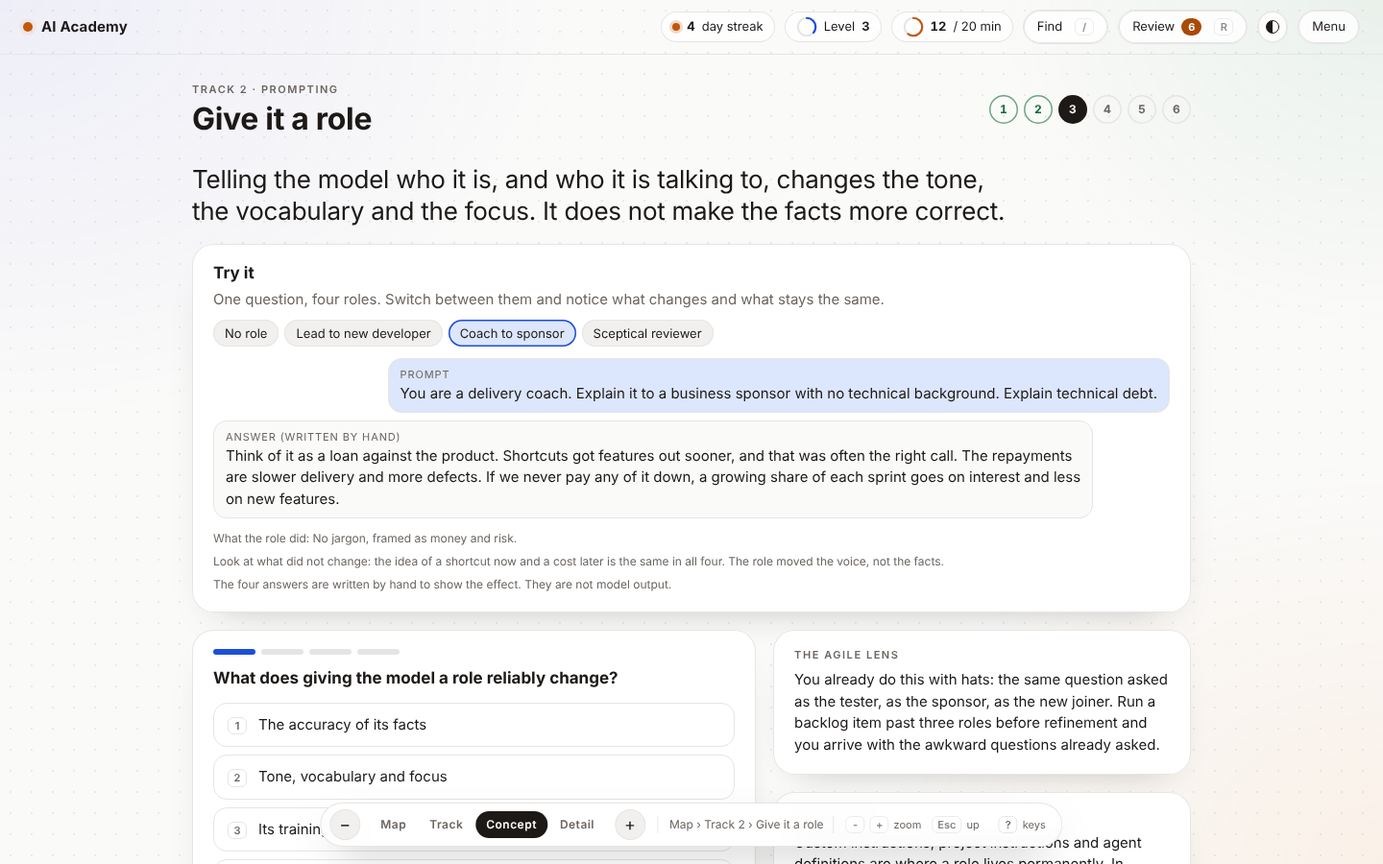
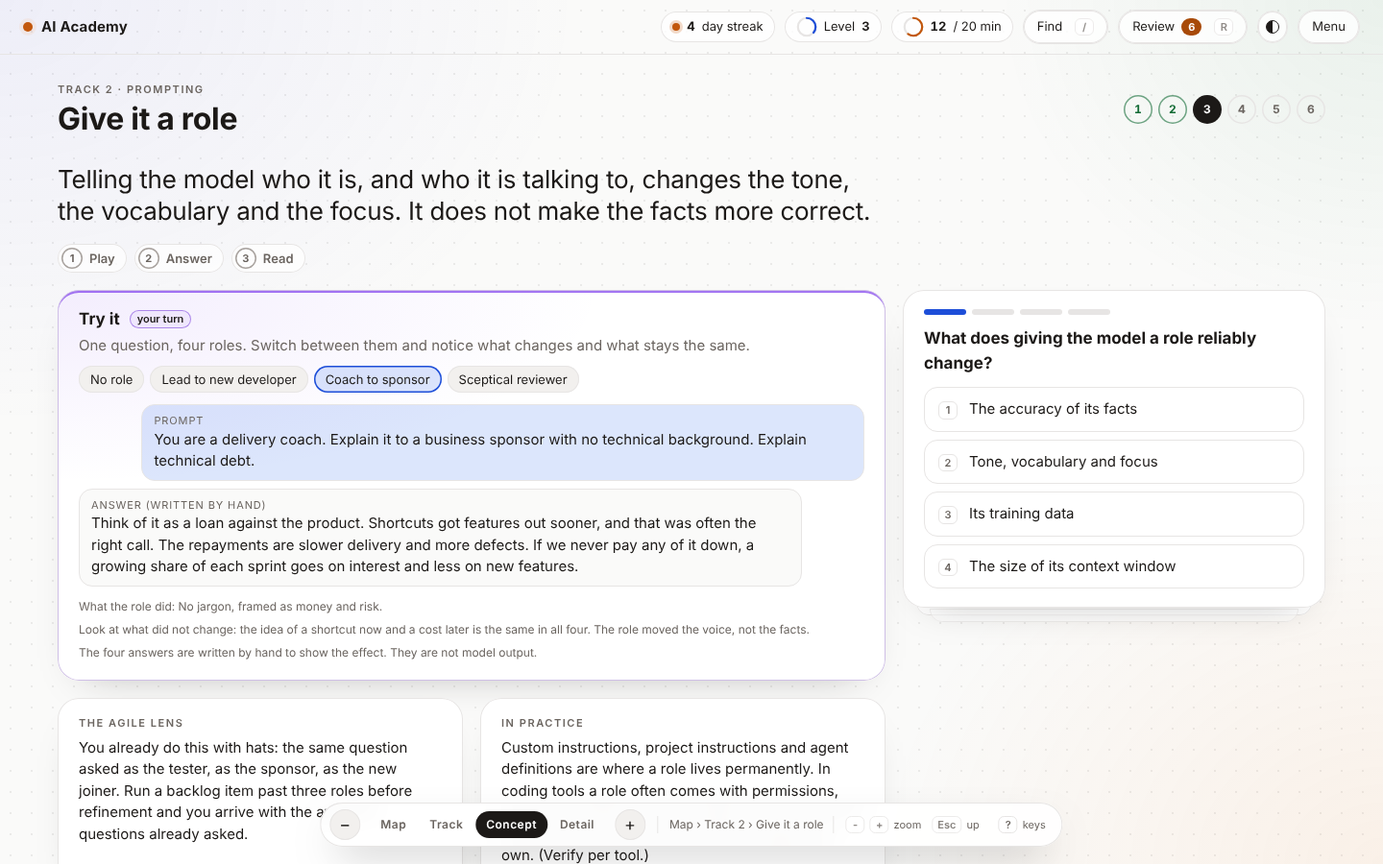
Lesson page: a play mat. Toy and question deck side by side, three steps, small celebrations
On a wide window the questions sit beside the toy and stay in view while it scrolls; narrower, they go under it.
Each lesson has three steps that tick off and are remembered: Play (touch the toy), Answer, Read.
Questions are a deck: cards still to come show behind, the next is dealt in, a right answer bursts and floats its XP to the level chip,
two in a row shows a streak, and the finish names the run. A toy's verdict pops when it turns good and shakes when it turns bad.
Bursts and floating numbers are skipped under reduced motion. XP rules are unchanged.
Tests: 22 new checks.

Claude-Session: https://claude.ai/code/session_01SbnCeDgANzMc5u6p79AutJ

diff --git a/app.js b/app.js
@@ -9,7 +9,7 @@
   function byId(list, id) { return list.filter(function (x) { return x.id === id; })[0]; }
 
   // ---------- state: kept in this browser only (localStorage), and Save / Load to a file ----------
-  function fresh() { return { v: 1, xp: 0, days: {}, cards: {}, done: {}, goal: 10, read: 22, theme: '', names: [], pos: { space: 'learn', track: 'models', concept: 'tokens', zoom: 0, fam: '', role: '' } }; }
+  function fresh() { return { v: 1, xp: 0, days: {}, cards: {}, done: {}, goal: 10, read: 22, theme: '', names: [], played: {}, readm: {}, pos: { space: 'learn', track: 'models', concept: 'tokens', zoom: 0, fam: '', role: '' } }; }
   // Accept a saved object only if it has the right shape; fill anything missing (older files have no names, no roles position).
   function adopt(j) {
     if (!(j && j.v === 1 && j.cards && typeof j.cards === 'object' && j.days && typeof j.days === 'object')) return null;
@@ -19,6 +19,7 @@
     s.theme = s.theme === 'light' || s.theme === 'dark' ? s.theme : '';
     s.names = Array.isArray(s.names) ? s.names.filter(function (n) { return typeof n === 'string'; }).slice(0, 50) : [];
     if (!s.done || typeof s.done !== 'object') s.done = {};
+    ['played', 'readm'].forEach(function (f) { if (!s[f] || typeof s[f] !== 'object') s[f] = {}; }); // which toys you have poked and which Read more pages you opened
     for (k in s.cards) { c = s.cards[k]; if (!c || typeof c.ef !== 'number' || typeof c.due !== 'number' || typeof c.int !== 'number' || typeof c.rep !== 'number') delete s.cards[k]; }
     for (k in s.days) { c = s.days[k]; if (!c || typeof c.min !== 'number' || typeof c.xp !== 'number') delete s.days[k]; }
     return s;
@@ -116,6 +117,7 @@
       if (z >= 2 && !S.pos.concept) z = 1;
     }
     S.pos.zoom = Math.max(0, Math.min(3, z));
+    if (S.pos.zoom === 3 && S.pos.space === 'learn' && S.pos.concept) S.readm[S.pos.concept] = true;
     save(); renderAll();
     if (z0 !== S.pos.zoom || sp0 !== S.pos.space || !went) arrive(z0);
     went = true;
@@ -225,10 +227,11 @@
     if (!L) { el.dataset.key = ''; el.innerHTML = '<div class="wrap"><h1>Nothing here yet</h1><p class="muted">Pick a lesson from the track.</p></div>'; return; }
     if (el.dataset.key !== 'learn.' + c.id) { // build once per lesson, so the picture keeps its state while the quiz and chips redraw
       el.dataset.key = 'learn.' + c.id;
-      el.innerHTML = '<div class="wrap"><div class="head big"><div><div class="kicker">Track ' + (trackIndex(t) + 1) + ' · ' + esc(t.title) + '</div><h1>' + esc(c.title) + '</h1></div><div class="lrail sp" id="lrail" role="group" aria-label="Lessons in this track"></div></div>' +
-        '<p class="idea">' + esc(L.idea) + '</p>' +
-        '<section class="card"><h3>Try it</h3><p class="muted" style="margin:0 0 10px">' + esc(L.tryit) + '</p><div class="widget" id="widget"></div><p class="note">' + esc(L.tryNote) + '</p></section>' +
-        '<div class="duo"><section class="card quiz" id="quiz" aria-label="Quiz"></section><div class="stackv"><div class="card"><h3>The Agile lens</h3><p>' + esc(L.agile) + '</p></div><div class="card"><h3>In practice</h3><p>' + esc(L.tools) + '</p></div></div></div>' +
+      el.innerHTML = '<div class="wrap lesson" style="--c:' + hue(trackIndex(t)) + '"><div class="head big"><div><div class="kicker">Track ' + (trackIndex(t) + 1) + ' · ' + esc(t.title) + '</div><h1>' + esc(c.title) + '</h1></div><div class="lrail sp" id="lrail" role="group" aria-label="Lessons in this track"></div></div>' +
+        '<p class="idea">' + esc(L.idea) + '</p><ol class="steps" id="steps" aria-label="This lesson, in three steps"></ol>' +
+        '<div class="playmat"><section class="card toy" id="toy"><div class="toyhead"><h3>Try it</h3><span class="tag turn" id="toy-state"></span></div><p class="muted" style="margin:0 0 10px">' + esc(L.tryit) + '</p><div class="widget" id="widget"></div><p class="note">' + esc(L.tryNote) + '</p></section>' +
+        '<div class="qcol"><section class="card quiz" id="quiz" aria-label="Quiz"></section></div>' +
+        '<div class="lenses"><div class="card"><h3>The Agile lens</h3><p>' + esc(L.agile) + '</p></div><div class="card"><h3>In practice</h3><p>' + esc(L.tools) + '</p></div></div></div>' +
         '<p><button type="button" class="btn" data-act="detail" aria-keyshortcuts="+">Read more, in big type' + kbd('+') + '</button></p></div>';
       var host = $('#widget', el);
       if (WIDGETS[L.widget]) WIDGETS[L.widget](host, L, sandboxApi); else host.innerHTML = '<p class="muted">No picture for this one yet.</p>';
@@ -236,7 +239,41 @@
     $('#lrail', el).innerHTML = readyIn(t).map(function (x, i) { // the lessons of this track, as a rail you can walk with the arrows
       return '<button type="button" data-concept="' + x.id + '" class="' + (S.done[x.id] ? 'ok' : '') + '"' + (x.id === c.id ? ' aria-current="true"' : '') + ' title="' + esc(x.title) + '" aria-label="Lesson ' + (i + 1) + ': ' + esc(x.title) + (S.done[x.id] ? ', done' : '') + '">' + (i + 1) + '</button>';
     }).join('');
+    renderSteps(c.id);
     startQuiz(c.id, '#quiz'); renderQuiz();
+  }
+  // A lesson is three small things to do: poke the toy, answer the questions, read more. Each one ticks off.
+  function renderSteps(cid) {
+    var box = $('#steps'), st = $('#toy-state'); if (!box) return;
+    var s = [['Play', !!S.played[cid]], ['Answer', !!S.done[cid]], ['Read', !!S.readm[cid]]], n = s.filter(function (x) { return x[1]; }).length;
+    box.innerHTML = s.map(function (x, i) { return '<li class="' + (x[1] ? 'ok' : '') + '"><i aria-hidden="true">' + (x[1] ? '✓' : i + 1) + '</i>' + x[0] + '<span class="muted">' + (x[1] ? ', done' : '') + '</span></li>'; }).join('') + (n === 3 ? '<li class="all">Lesson complete</li>' : '');
+    if (st) { st.textContent = S.played[cid] ? '✓ played' : 'your turn'; st.className = 'tag ' + (S.played[cid] ? 'go' : 'turn'); }
+  }
+  function markPlayed() { // the first time you touch a toy
+    var cid = S.pos.concept; if (S.pos.space !== 'learn' || S.pos.zoom !== 2 || !cid || S.played[cid]) return;
+    S.played[cid] = true; save(); renderSteps(cid); burst($('#toy-state'), 'var(--ok)', 8);
+  }
+  ['input', 'change', 'click'].forEach(function (ev) { $('#L2').addEventListener(ev, function (e) { if (e.target.closest && e.target.closest('#widget') && (ev !== 'click' || e.target.closest('button, input, label'))) markPlayed(); }); });
+
+  // ---------- small celebrations: a burst of dots, a number that floats up. Skipped when reduced motion is on. ----------
+  var calm = window.matchMedia ? matchMedia('(prefers-reduced-motion: reduce)') : { matches: false };
+  function burst(el, color, n) {
+    if (!el || calm.matches) return;
+    var r = el.getBoundingClientRect(), box = document.createElement('div'), i, d, a, dist;
+    box.className = 'burst'; box.setAttribute('aria-hidden', 'true'); box.style.left = (r.left + Math.min(r.width / 2, 24)) + 'px'; box.style.top = (r.top + r.height / 2) + 'px';
+    for (i = 0; i < n; i++) {
+      d = document.createElement('i'); a = (i / n) * Math.PI * 2 + Math.random() * 0.6; dist = 22 + Math.random() * 34;
+      d.style.setProperty('--dx', (Math.cos(a) * dist).toFixed(1) + 'px'); d.style.setProperty('--dy', (Math.sin(a) * dist).toFixed(1) + 'px'); d.style.background = i % 3 === 2 ? 'var(--info)' : color;
+      box.appendChild(d);
+    }
+    document.body.appendChild(box); setTimeout(function () { box.remove(); }, 900);
+  }
+  function flyXp(el, n) {
+    var chip = $('#c-level'); chip.classList.remove('bump'); void chip.offsetWidth; chip.classList.add('bump'); // the level chip takes the points
+    if (!el || calm.matches) return;
+    var r = el.getBoundingClientRect(), f = document.createElement('b');
+    f.className = 'xpfly'; f.setAttribute('aria-hidden', 'true'); f.textContent = '+' + n + ' XP'; var side = el.classList.contains('score'); f.style.left = (side ? r.right + 10 : r.right - 90) + 'px'; f.style.top = (side ? r.top + r.height / 2 : r.top + 4) + 'px'; // beside the score ring, or in the corner of the answer
+    document.body.appendChild(f); setTimeout(function () { f.remove(); }, 1100);
   }
   function renderDetail() {
     var t = trackOf(S.pos.track), c = t && conceptOf(t, S.pos.concept), L = c && A.lessons[c.id];
@@ -353,9 +390,10 @@
     var box = Q && $(Q.box); if (!box) return;
     var qs = QSETS[Q.sid], n = qs.length, dots = '';
     for (var i = 0; i < n; i++) dots += '<i class="' + (Q.res[i] === true ? 'ok' : Q.res[i] === false ? 'bad' : i === Q.i && !Q.done ? 'on' : '') + '"></i>';
+    box.dataset.left = Q.done ? 0 : n - Q.i - 1; // how many cards are still in the deck behind this one
     if (Q.done) {
-      var nx = S.pos.space === 'learn' ? nextLesson(Q.sid) : null;
-      box.innerHTML = '<div class="done"><div class="dots">' + dots + '</div><div class="score" style="--c:var(--ok)" aria-hidden="true">' + ring(Q.right / n, 96, 'hue') + '<b>' + Q.right + '/' + n + '</b></div><h3 tabindex="-1">' + Q.right + ' of ' + n + ' right</h3><p class="muted" style="margin:0">' + (Q.gain ? '+' + Q.gain + ' XP. ' : '') + (Q.added ? Q.added + ' cards joined your review queue.' : 'Your review cards keep their schedule.') + '</p>' +
+      var nx = S.pos.space === 'learn' ? nextLesson(Q.sid) : null, word = Q.right === n ? 'Clean sweep' : Q.right * 2 >= n ? 'Good run' : 'First pass';
+      box.innerHTML = '<div class="done"><div class="dots">' + dots + '</div><div class="kicker">' + word + '</div><div class="score" style="--c:var(--ok)" aria-hidden="true">' + ring(Q.right / n, 96, 'hue') + '<b>' + Q.right + '/' + n + '</b></div><h3 tabindex="-1">' + Q.right + ' of ' + n + ' right</h3><p class="muted" style="margin:0">' + (Q.gain ? '+' + Q.gain + ' XP. ' : '') + (Q.added ? Q.added + ' cards joined your review queue.' : 'Your review cards keep their schedule.') + '</p>' +
         '<div class="row" style="justify-content:center">' + (nx ? '<button type="button" class="btn primary" data-act="nextlesson">Next lesson: ' + esc(nx.c.title) + '</button>' : '') +
         (S.pos.space === 'learn' ? '<button type="button" class="btn' + (nx ? '' : ' primary') + '" data-act="detail">Read more</button><button type="button" class="btn" data-z="1">Back to the track</button>' : '<button type="button" class="btn" data-z="0">Back to the tree</button>') +
         '<button type="button" class="btn" data-act="replay">Replay the quiz</button></div></div>';
@@ -363,22 +401,26 @@
       return;
     }
     var q = qs[Q.i];
-    box.innerHTML = '<div class="dots">' + dots + '</div><p class="q" tabindex="-1">' + esc(q.q) + '</p>' + optsHtml(q, Q.picked, 'data-opt', focus) +
-      (Q.picked === null ? '' : '<p class="why" role="status"><b>' + (Q.picked === q.a ? 'Right. ' : 'Not quite. ') + '</b>' + esc(q.why) + '</p><p style="margin:12px 0 0"><button type="button" class="btn primary" data-act="next">' + (Q.i + 1 < n ? 'Next question' : 'Finish') + kbd('Enter') + '</button></p>');
+    box.innerHTML = '<div class="qbody' + (Q.deal ? ' deal' : '') + '"><div class="qhead"><div class="dots">' + dots + '</div>' + (Q.combo >= 2 ? '<span class="combo">' + Q.combo + ' in a row</span>' : '') + '</div><p class="q" tabindex="-1">' + esc(q.q) + '</p>' + optsHtml(q, Q.picked, 'data-opt', focus) +
+      (Q.picked === null ? '' : '<p class="why" role="status"><b>' + (Q.picked === q.a ? 'Right. ' : 'Not quite. ') + '</b>' + esc(q.why) + '</p><p style="margin:12px 0 0"><button type="button" class="btn primary" data-act="next">' + (Q.i + 1 < n ? 'Next question' : 'Finish') + kbd('Enter') + '</button></p>') + '</div>';
+    Q.deal = false;
     if (focus) { var f = Q.picked === null ? $('.q', box) : $('[data-act="next"]', box); if (f) f.focus({ preventScroll: Q.picked !== null }); }
   }
   function pick(i) {
     if (!Q || Q.done || Q.picked !== null) return;
     var q = QSETS[Q.sid][Q.i]; if (i >= q.opts.length) return;
-    var ok = i === q.a; Q.picked = i; Q.res[Q.i] = ok; if (ok) Q.right++;
-    if (!S.cards[q.id]) { grade(q.id, ok ? 4 : 1); var g = ok ? 5 : 1; addXp(g); Q.gain = (Q.gain || 0) + g; Q.added = (Q.added || 0) + 1; } // only the first sight of a question makes a card and earns XP
+    var ok = i === q.a, g = 0; Q.picked = i; Q.res[Q.i] = ok; if (ok) Q.right++; Q.combo = ok ? (Q.combo || 0) + 1 : 0;
+    if (!S.cards[q.id]) { grade(q.id, ok ? 4 : 1); g = ok ? 5 : 1; addXp(g); Q.gain = (Q.gain || 0) + g; Q.added = (Q.added || 0) + 1; } // only the first sight of a question makes a card and earns XP
     renderQuiz(true); renderChips();
+    var hit = $(Q.box + ' .opt.right'); if (ok) burst(hit, 'var(--ok)', 10); if (g) flyXp(ok ? hit : $(Q.box + ' .opt.wrong'), g);
   }
   function nextQ() {
     if (!Q || Q.picked === null) return;
     Q.picked = null; Q.i++;
-    if (Q.i >= QSETS[Q.sid].length) { Q.done = true; if (!S.done[Q.sid]) { S.done[Q.sid] = true; addXp(20); Q.gain = (Q.gain || 0) + 20; } save(); renderAll(); }
+    var fin = Q.i >= QSETS[Q.sid].length, first = false;
+    if (fin) { Q.done = true; if (!S.done[Q.sid]) { first = true; S.done[Q.sid] = true; addXp(20); Q.gain = (Q.gain || 0) + 20; } save(); renderAll(); } else Q.deal = true; // the next card is dealt in
     renderQuiz(true);
+    if (fin) { if (first) flyXp($(Q.box + ' .score'), 20); if (Q.right === QSETS[Q.sid].length) burst($(Q.box + ' .score'), 'var(--ok)', 18); }
   }
 
   // ---------- chips, menu ----------
@@ -450,7 +492,7 @@
     box.innerHTML = '<div class="sheet"><div class="sheethead"><h2 class="kicker" id="rv-title">Review · card ' + (R.i + 1) + ' of ' + R.ids.length + '</h2>' + segs(shown) + close + '</div><div class="card"><p class="q" tabindex="-1">' + esc(q.q) + '</p>' + optsHtml(q, R.picked, 'data-ropt', focus) + tail + '</div></div>';
     if (focus) { var f = R.picked === null ? $('.q', box) : $('[data-g="4"]', box) || $('[data-g="1"]', box); if (f) f.focus(); }
   }
-  function rpick(i) { if (R && R.picked === null && R.i < R.ids.length && i < QINDEX[R.ids[R.i]].opts.length) { R.picked = i; renderReview(true); } }
+  function rpick(i) { if (R && R.picked === null && R.i < R.ids.length && i < QINDEX[R.ids[R.i]].opts.length) { R.picked = i; renderReview(true); if (i === QINDEX[R.ids[R.i]].a) burst($('#review .opt.right'), 'var(--ok)', 10); } }
   function rgrade(g) { if (!R || R.picked === null) return; var id = R.ids[R.i]; grade(id, g); addXp(2); R.gain += 2; R.i++; R.picked = null; renderReview(true); renderChips(); }
 
   // The sandbox keeps the names you list (to warn about them) in this browser. They are left out of the Save file.

diff --git a/style.css b/style.css
@@ -457,9 +457,59 @@ fieldset.seg label { display: flex; gap: 8px; align-items: flex-start; min-heigh
 .donut { --p: 0; display: inline-block; width: 54px; height: 54px; border-radius: 50%; vertical-align: middle; margin-right: 12px; background: conic-gradient(var(--ok) calc(var(--p) * 1%), var(--ring-bg) 0); -webkit-mask: radial-gradient(circle, transparent 17px, #000 18px); mask: radial-gradient(circle, transparent 17px, #000 18px); }
 .widget .leg { margin-bottom: 8px; }
 
+/* ---------- the lesson page as a play mat: the toy on one side, the questions dealt beside it ---------- */
+.steps { list-style: none; margin: 0; padding: 0; display: flex; gap: 8px; flex-wrap: wrap; align-items: center; }
+.steps li { display: inline-flex; align-items: center; gap: 7px; padding: 4px 12px 4px 4px; border-radius: 999px; font-size: var(--fs-md); font-weight: 600; color: var(--muted); box-shadow: inset 0 0 0 1px var(--line); background: color-mix(in srgb, var(--surface) 70%, transparent); }
+.steps li i { font-style: normal; width: 22px; height: 22px; border-radius: 50%; display: grid; place-items: center; font-size: var(--fs-xs); font-weight: 700; box-shadow: inset 0 0 0 1.5px var(--neutral); }
+.steps li span { position: absolute; width: 1px; height: 1px; overflow: hidden; clip-path: inset(50%); }
+.steps li.ok { color: var(--text); } .steps li.ok i { background: var(--ok); color: var(--bg); box-shadow: none; animation: stamp .4s var(--ease); }
+.steps li.all { padding-left: 12px; color: var(--ok); box-shadow: inset 0 0 0 1px color-mix(in srgb, var(--ok) 55%, transparent); background: color-mix(in srgb, var(--ok) 8%, var(--surface)); }
+@keyframes stamp { from { transform: scale(.4); } 60% { transform: scale(1.2); } }
+.playmat { display: grid; gap: 18px; grid-template-columns: minmax(0, 1.35fr) minmax(0, 1fr); grid-template-areas: "toy toy" "quiz lens"; align-items: start; }
+.playmat > * { min-width: 0; }
+.toy { grid-area: toy; background: radial-gradient(120% 90% at 0 0, color-mix(in srgb, var(--c) 9%, transparent), transparent 55%), var(--surface); box-shadow: inset 0 0 0 1px color-mix(in srgb, var(--c) 22%, var(--line)), inset 0 3px 0 color-mix(in srgb, var(--c) 70%, transparent), var(--panel-sh); }
+.toyhead { display: flex; align-items: center; gap: 10px; margin-bottom: 6px; } .toyhead h3 { margin: 0; }
+.tag.turn { color: var(--text); box-shadow: inset 0 0 0 1px color-mix(in srgb, var(--c) 55%, var(--line)); background: color-mix(in srgb, var(--c) 12%, var(--surface)); animation: breathe 2.4s ease-in-out infinite; }
+@keyframes breathe { 50% { box-shadow: inset 0 0 0 1px color-mix(in srgb, var(--c) 55%, var(--line)), 0 0 0 5px color-mix(in srgb, var(--c) 14%, transparent); } }
+.qcol { grid-area: quiz; } .lenses { grid-area: lens; display: grid; gap: 18px; }
+.lenses .card h3 { font-size: var(--fs-xs); font-weight: 600; letter-spacing: var(--tr-label); text-transform: uppercase; color: var(--muted); margin-bottom: 8px; } .lenses .card p { margin: 0; }
+@media (min-width: 1280px) {
+  .wrap.lesson { max-width: 1320px; }
+  .playmat { grid-template-columns: minmax(0, 1fr) 440px; grid-template-areas: "toy quiz" "lens quiz"; }
+  .qcol { position: sticky; top: 0; } .lenses { grid-template-columns: repeat(2, minmax(0, 1fr)); }
+}
+/* the questions are a deck: the cards still to come sit behind, and the next one is dealt in */
+.quiz { position: relative; }
+.quiz::before, .quiz::after { content: ""; position: absolute; left: 14px; right: 14px; height: 14px; bottom: -8px; border-radius: 0 0 20px 20px; background: var(--surface); box-shadow: inset 0 0 0 1px var(--line); z-index: -1; transition: opacity .3s, transform .3s; }
+.quiz::after { left: 28px; right: 28px; bottom: -15px; opacity: .6; }
+.quiz[data-left="1"]::after, .quiz[data-left="0"]::before, .quiz[data-left="0"]::after { opacity: 0; transform: translateY(-8px); }
+.qcol, #L1 .quiz { isolation: isolate; }
+.qhead { display: flex; align-items: center; gap: 10px; margin-bottom: 12px; } .qhead .dots { margin: 0; flex: 1; }
+.combo { font-size: var(--fs-xs); font-weight: 700; letter-spacing: var(--tr-tight); color: var(--bg); background: var(--run-solid); color: var(--on-run); border-radius: 999px; padding: 1px 9px; animation: stamp .4s var(--ease); white-space: nowrap; }
+@keyframes deal { from { opacity: 0; transform: translateX(26px) rotate(1.2deg); } }
+.qbody.deal { animation: deal .38s var(--ease) both; }
+.opt { transition: border-color .15s ease, background .15s ease, transform .12s ease; }
+.opt:active:not([disabled]) { transform: scale(.985); }
+.opt:hover:not([disabled]) kbd, .opt:focus-visible kbd { background: var(--accent); color: var(--on-accent); border-color: var(--accent); }
+.opt.right kbd { background: var(--ok); color: var(--bg); border-color: var(--ok); } .opt.wrong kbd { background: var(--err); color: var(--bg); border-color: var(--err); }
+.done .kicker { color: var(--ok); }
+/* a burst of dots and a number that floats up */
+.burst { position: fixed; z-index: 70; width: 0; height: 0; pointer-events: none; }
+.burst i { position: absolute; left: -3px; top: -3px; width: 6px; height: 6px; border-radius: 50%; animation: burst .7s var(--ease) both; }
+@keyframes burst { from { transform: translate(0, 0) scale(1); opacity: 1; } to { transform: translate(var(--dx), var(--dy)) scale(.3); opacity: 0; } }
+.xpfly { position: fixed; z-index: 70; pointer-events: none; font-size: var(--fs-md); font-weight: 700; color: var(--ok); animation: xpfly 1s var(--ease) both; white-space: nowrap; }
+@keyframes xpfly { from { opacity: 0; transform: translateY(6px); } 20% { opacity: 1; } to { opacity: 0; transform: translateY(-42px); } }
+@keyframes bump { 40% { transform: scale(1.12); box-shadow: inset 0 0 0 1px var(--info), 0 0 0 5px color-mix(in srgb, var(--info) 18%, transparent); } }
+.chip.bump { animation: bump .5s var(--ease); }
+/* a toy's verdict pops when it turns good and shakes when it turns bad */
+@keyframes vpop { from { transform: scale(.985); background: color-mix(in srgb, var(--ok) 18%, var(--chip)); } }
+@keyframes vshake { 25% { transform: translateX(-3px); } 75% { transform: translateX(3px); } from { background: color-mix(in srgb, var(--err) 16%, var(--chip)); } }
+.widget .verdict.ok { animation: vpop .5s var(--ease); } .widget .verdict.bad { animation: vshake .32s ease-in-out; }
+
 @media (prefers-reduced-motion: reduce) {
   /* transitions are off altogether, not just very short: a .01ms transition on an inherited property (visibility) still leaves a layer hidden for a frame, and the keyboard cannot land in it */
   *, *::before, *::after { transition: none !important; animation-duration: .01ms !important; animation-delay: 0s !important; animation-iteration-count: 1 !important; scroll-behavior: auto !important; }
   .layer, .layer.is-out, .tcard:hover, .tcard:focus-visible, .rnode:hover, .rnode:focus-visible, .btn.primary:hover { transform: none !important; }
   .tcard.next .tring::after { display: none; }
+  .tag.turn { animation: none !important; }
 }

diff --git a/tests/run.js b/tests/run.js
@@ -1283,6 +1283,59 @@ ok((await page.locator('#rt-verdict').getAttribute('class')).includes('bad') && 
   eq(page.net, [], 'and nothing over the network');
   await page.close();
 
+  // ------------------------------------------------------------------ the lesson page: play mat, steps, the question deck
+  section('The lesson page: toy and questions side by side, three steps, a deck of questions');
+  page = await open(browser, { viewport: { width: 1440, height: 900 } });
+  await goLesson(page, 'models', 'context');
+  const boxes = () => D(page, () => { const t = document.querySelector('#toy').getBoundingClientRect(), q = document.querySelector('#quiz').getBoundingClientRect(); return { side: q.left >= t.right && Math.abs(q.top - t.top) < 6, below: q.top >= t.bottom }; });
+  ok((await boxes()).side, 'on a wide screen the questions sit beside the toy, so you can poke it while you answer');
+  const steps = () => D(page, () => [...document.querySelectorAll('#steps li')].map(l => (l.classList.contains('ok') ? '+' : l.classList.contains('all') ? '*' : '-') + l.textContent.replace(/^[✓\d]/, '').replace(', done', '')));
+  eq([await steps(), await text(page, '#toy-state')], [['-Play', '-Answer', '-Read'], 'your turn'], 'a new lesson shows three steps to do, and the toy says it is your turn');
+  await page.focus('#cx-win'); await page.keyboard.press('ArrowLeft');
+  eq([(await steps())[0], await text(page, '#toy-state'), await D(page, () => ACADEMY_DEBUG.state().played.context)], ['+Play', '✓ played', true], 'touching the toy ticks Play, and it is remembered');
+  ok(await page.locator('.burst').count() === 1, 'with a small burst');
+  await setRange(page, '#cx-turns', 9);
+  await D(page, () => { document.querySelector('#L2').scrollTop = 400; }); await page.waitForTimeout(50);
+  ok(await D(page, () => { const q = document.querySelector('#quiz').getBoundingClientRect(), s = document.querySelector('#stage').getBoundingClientRect(); return q.top >= s.top - 2 && q.top < s.top + 40; }), 'and they stay in view while the toy scrolls');
+  await D(page, () => { document.querySelector('#L2').scrollTop = 0; });
+  const ca = await D(page, () => ACADEMY.lessons.context.quiz.map(q => q.a));
+  eq(await D(page, () => document.querySelector('#quiz').dataset.left), '3', 'the question card shows three more cards behind it');
+  await page.keyboard.press(String(ca[0] + 1));
+  ok(await page.locator('.xpfly').count() === 1 && /\+5 XP/.test(await text(page, '.xpfly')) && await D(page, () => document.querySelector('#c-level').classList.contains('bump')), 'a right answer floats +5 XP and the level chip takes it');
+  ok(await page.locator('#quiz .combo').count() === 0, 'one right answer is not a streak yet');
+  await page.keyboard.press('Enter');
+  ok(await D(page, () => document.querySelector('#quiz .qbody').classList.contains('deal') && document.querySelector('#quiz').dataset.left === '2'), 'the next question is dealt in and the deck gets shorter');
+  await page.keyboard.press(String(ca[1] + 1));
+  ok(/2 in a row/.test(await text(page, '#quiz .combo')), 'two right answers running shows a streak');
+  await page.keyboard.press('Enter'); await page.keyboard.press(String(((ca[2] + 1) % 4) + 1));
+  ok(await page.locator('#quiz .combo').count() === 0, 'a miss ends the streak');
+  await page.keyboard.press('Enter'); await page.keyboard.press(String(ca[3] + 1)); await page.keyboard.press('Enter');
+  ok(/good run/i.test(await text(page, '#quiz .done .kicker')) && /3 of 4 right/.test(await text(page, '#quiz')) && await D(page, () => document.querySelector('#quiz').dataset.left === '0'), 'the finish names the run, and the deck is empty');
+  eq((await steps()).slice(0, 2), ['+Play', '+Answer'], 'finishing the questions ticks Answer');
+  await page.keyboard.press('+'); await page.keyboard.press('-');
+  eq(await steps(), ['+Play', '+Answer', '+Read', '*Lesson complete'], 'opening Read more ticks Read, and the lesson is complete');
+  await page.waitForTimeout(1300); eq(await page.locator('.burst, .xpfly').count(), 0, 'the bursts and floating numbers clean up after themselves');
+  await goLesson(page, 'models', 'tokens'); const tk = await D(page, () => ACADEMY.lessons.tokens.quiz.map(q => q.a));
+  for (const a of tk) { await page.keyboard.press(String(a + 1)); await page.keyboard.press('Enter'); }
+  ok(/clean sweep/i.test(await text(page, '#quiz .done .kicker')), 'all four right is a clean sweep');
+  await page.waitForTimeout(1300); await page.locator('#quiz [data-act="replay"]').click(); await page.keyboard.press(String(tk[0] + 1));
+  await page.waitForTimeout(50);
+  ok(await page.locator('.burst').count() >= 1 && await page.locator('.xpfly').count() === 0, 'on a replay a right answer still bursts, but no XP floats, because none is earned');
+  await page.reload();
+  eq(await D(page, () => [ACADEMY_DEBUG.state().played.context, ACADEMY_DEBUG.state().readm.context]), [true, true], 'the steps survive a reload');
+  eq(await D(page, () => { const s = ACADEMY_DEBUG.adopt({ v: 1, cards: {}, days: {} }); return [typeof s.played, typeof s.readm]; }), ['object', 'object'], 'an older save file without the steps still loads');
+  eq(page.errors, [], 'no script errors on the lesson page run');
+  await page.close();
+  page = await open(browser);
+  await goLesson(page, 'models', 'context');
+  ok((await boxes()).below, 'on a narrower window the questions go under the toy');
+  await page.close();
+  page = await open(browser, { reducedMotion: 'reduce', viewport: { width: 1440, height: 900 } });
+  await goLesson(page, 'models', 'context'); await page.focus('#cx-win'); await page.keyboard.press('ArrowLeft');
+  const cq = await D(page, () => ACADEMY.lessons.context.quiz[0].a); await page.keyboard.press(String(cq + 1));
+  eq([await page.locator('.burst, .xpfly').count(), await text(page, '#toy-state'), await page.locator('#quiz .opt.right').count()], [0, '✓ played', 1], 'with reduced motion on there are no bursts or floating numbers, and everything still works');
+  await page.close();
+
   await browser.close();
   console.log('\n' + pass + ' passed, ' + fail + ' failed');
   if (fail) { console.log('\nFailed:\n  ' + failures.join('\n  ')); process.exit(1); }

diff --git a/tests/shots.js b/tests/shots.js
@@ -28,6 +28,7 @@ const seed = () => {
     await page.keyboard.press('m'); await page.keyboard.press('ArrowRight'); await shot('1-map');                    // the Map, with the keyboard on a tile
     await page.keyboard.press('ArrowLeft'); await page.keyboard.press('Enter'); await shot('2-track');                 // the Track, on the lesson you are at
     await page.keyboard.press('Enter'); await page.locator('#widget [data-v="2"]').click(); await page.evaluate(() => { document.querySelector('#L2').scrollTop = 0; }); await shot('3-concept');
+    { const qa = await page.evaluate(() => ACADEMY.lessons.roles.quiz[0].a); await page.keyboard.press(String(qa + 1)); await shot('3b-answering'); }
     await page.keyboard.press('+'); await shot('4-detail');
     await page.keyboard.press('r'); await page.keyboard.press('ArrowDown'); await shot('5-review');
     await page.keyboard.press('Escape'); await page.keyboard.press('s');
@@ -38,5 +39,5 @@ const seed = () => {
     await ctx.close();
   }
   await browser.close();
-  console.log('wrote 18 screenshots to ' + OUT);
+  console.log('wrote 20 screenshots to ' + OUT);
 })().catch(e => { console.error(e); process.exit(1); });

diff --git a/README.md b/README.md
@@ -16,6 +16,7 @@ Read `PLAN.md` first (one page). Facts and what is checked: `content/SOURCES.md`
 - **Track 8, Tools in practice** (4 lessons): a tool in your editor, in the terminal, one that takes a ticket and returns a pull request, and a six-question card for any tool you add.
 - **Track 9, Agile x AI** (9 lessons): AI-DLC, the AI-driven development life cycle that AWS published. Why a new life cycle, plan-ask-validate-build and its gates, three phases and who does what, stages and plans, rules and the audit trail, bringing a team along, the facilitator's first week, what the evidence says (and does not), and a rehearsal where you write your own answer before seeing a sample. Sourced from AWS's own post, the white paper and the open tooling docs.
 - Every claim has a source id in `content/SOURCES.md`, with how well each source was checked. Anything unchecked is marked **verify**.
+- The lesson page is a play mat: the picture you can poke on one side, the questions dealt as a deck beside it, and three steps that tick off (Play, Answer, Read).
 - Every lesson: one idea, one picture you can poke, four questions, Read more in big type (A- / A+), an Agile lens and an In practice line. About ten minutes each.
 - **Prompt sandbox** (Menu, the Map, or the `S` key): scores a prompt against a six-part rubric and warns when text looks like real data (emails, long digit runs, names). It never calls a model. The prompt is not saved; the names you list for it to watch for are kept in this browser only, and left out of the Save file.
 - **Roles family tree** (the switch at the top of the Map, or the `T` key): our own tree of AI-era roles, with the same zoom (Tree, Family, Role, Detail), a Read more for each role, and quiz cards. Inspired by Ian Miell's family tree of software job titles; none of his data is used.
